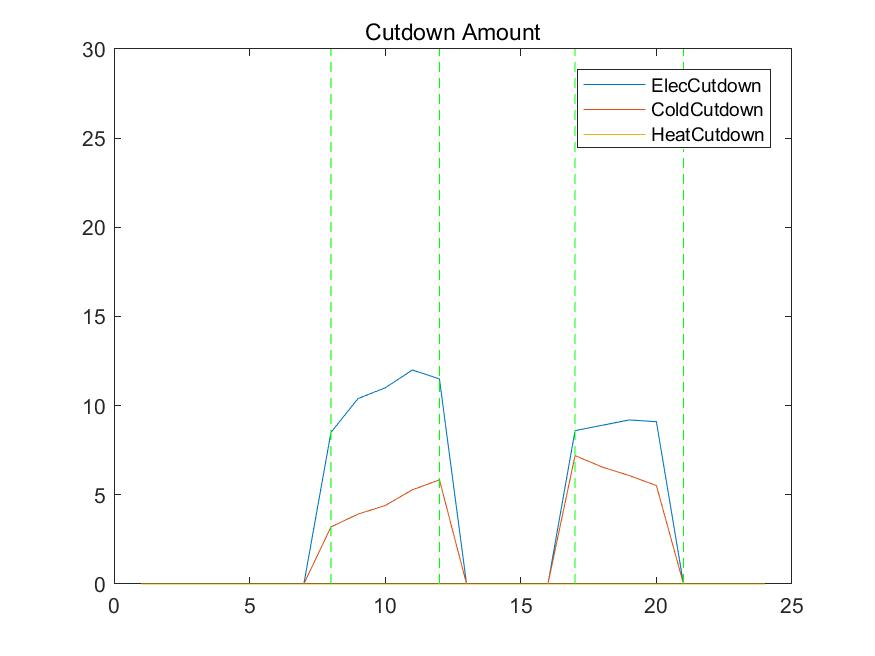
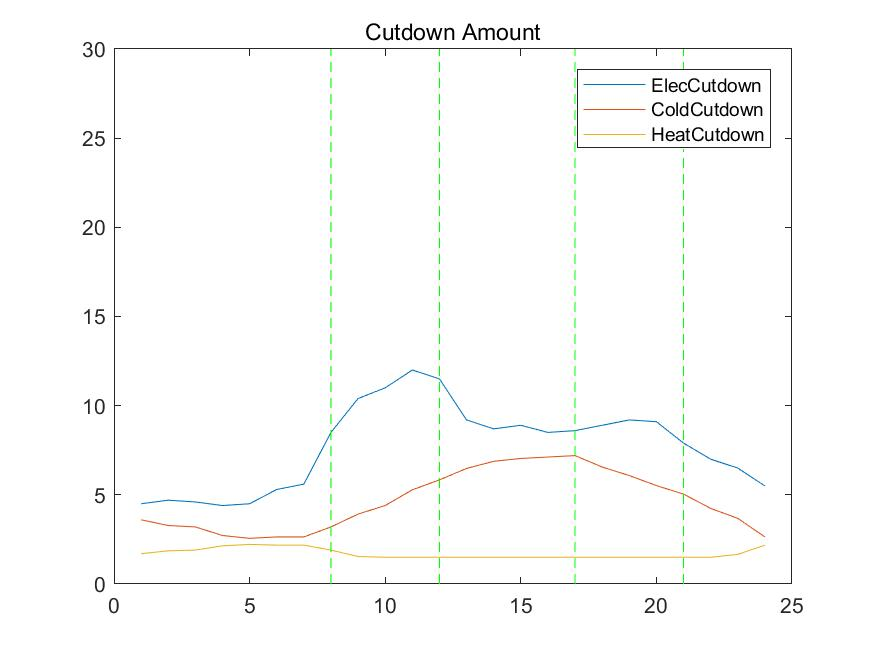
final version

diff --git a/data_collection.m b/data_collection.m
@@ -2,9 +2,9 @@ set(0,'DefaultFigureVisible', 'on')
 loaddir = 'C:\Users\kxxs\Desktop\Energy-Hub\Load\';
 rand('seed',1);
 
-renewables = importdata('renewable.dat');
-Wind_Summer = renewables.Wind_summer_unit;
-Wind_Winter = renewables.Wind_winter_unit;
+% renewables = importdata('renewable.dat');
+% Wind_Summer = renewables.Wind_summer_unit;
+% Wind_Winter = renewables.Wind_winter_unit;
 
 Time = 1:24;
             %1    2      3    4      5    6     7     8

diff --git a/README.md b/README.md
@@ -2,11 +2,13 @@
 
 大三暑期生产实习项目
 
-model_establish_v2: 通用模板
+model_establish_v2: 通用模板，能量枢纽规范化建模程序
 
 model_establish_v3: 加入需求侧响应部分
 
-model_establish_v3: 最终版需求侧响应
+model_establish_v4: 最终版需求侧响应（经济效益最优）
+
+model_establish_v5: 最终版需求侧响应（潜力评估部分）
 
 data.docx: 文献中收集的参数
 
